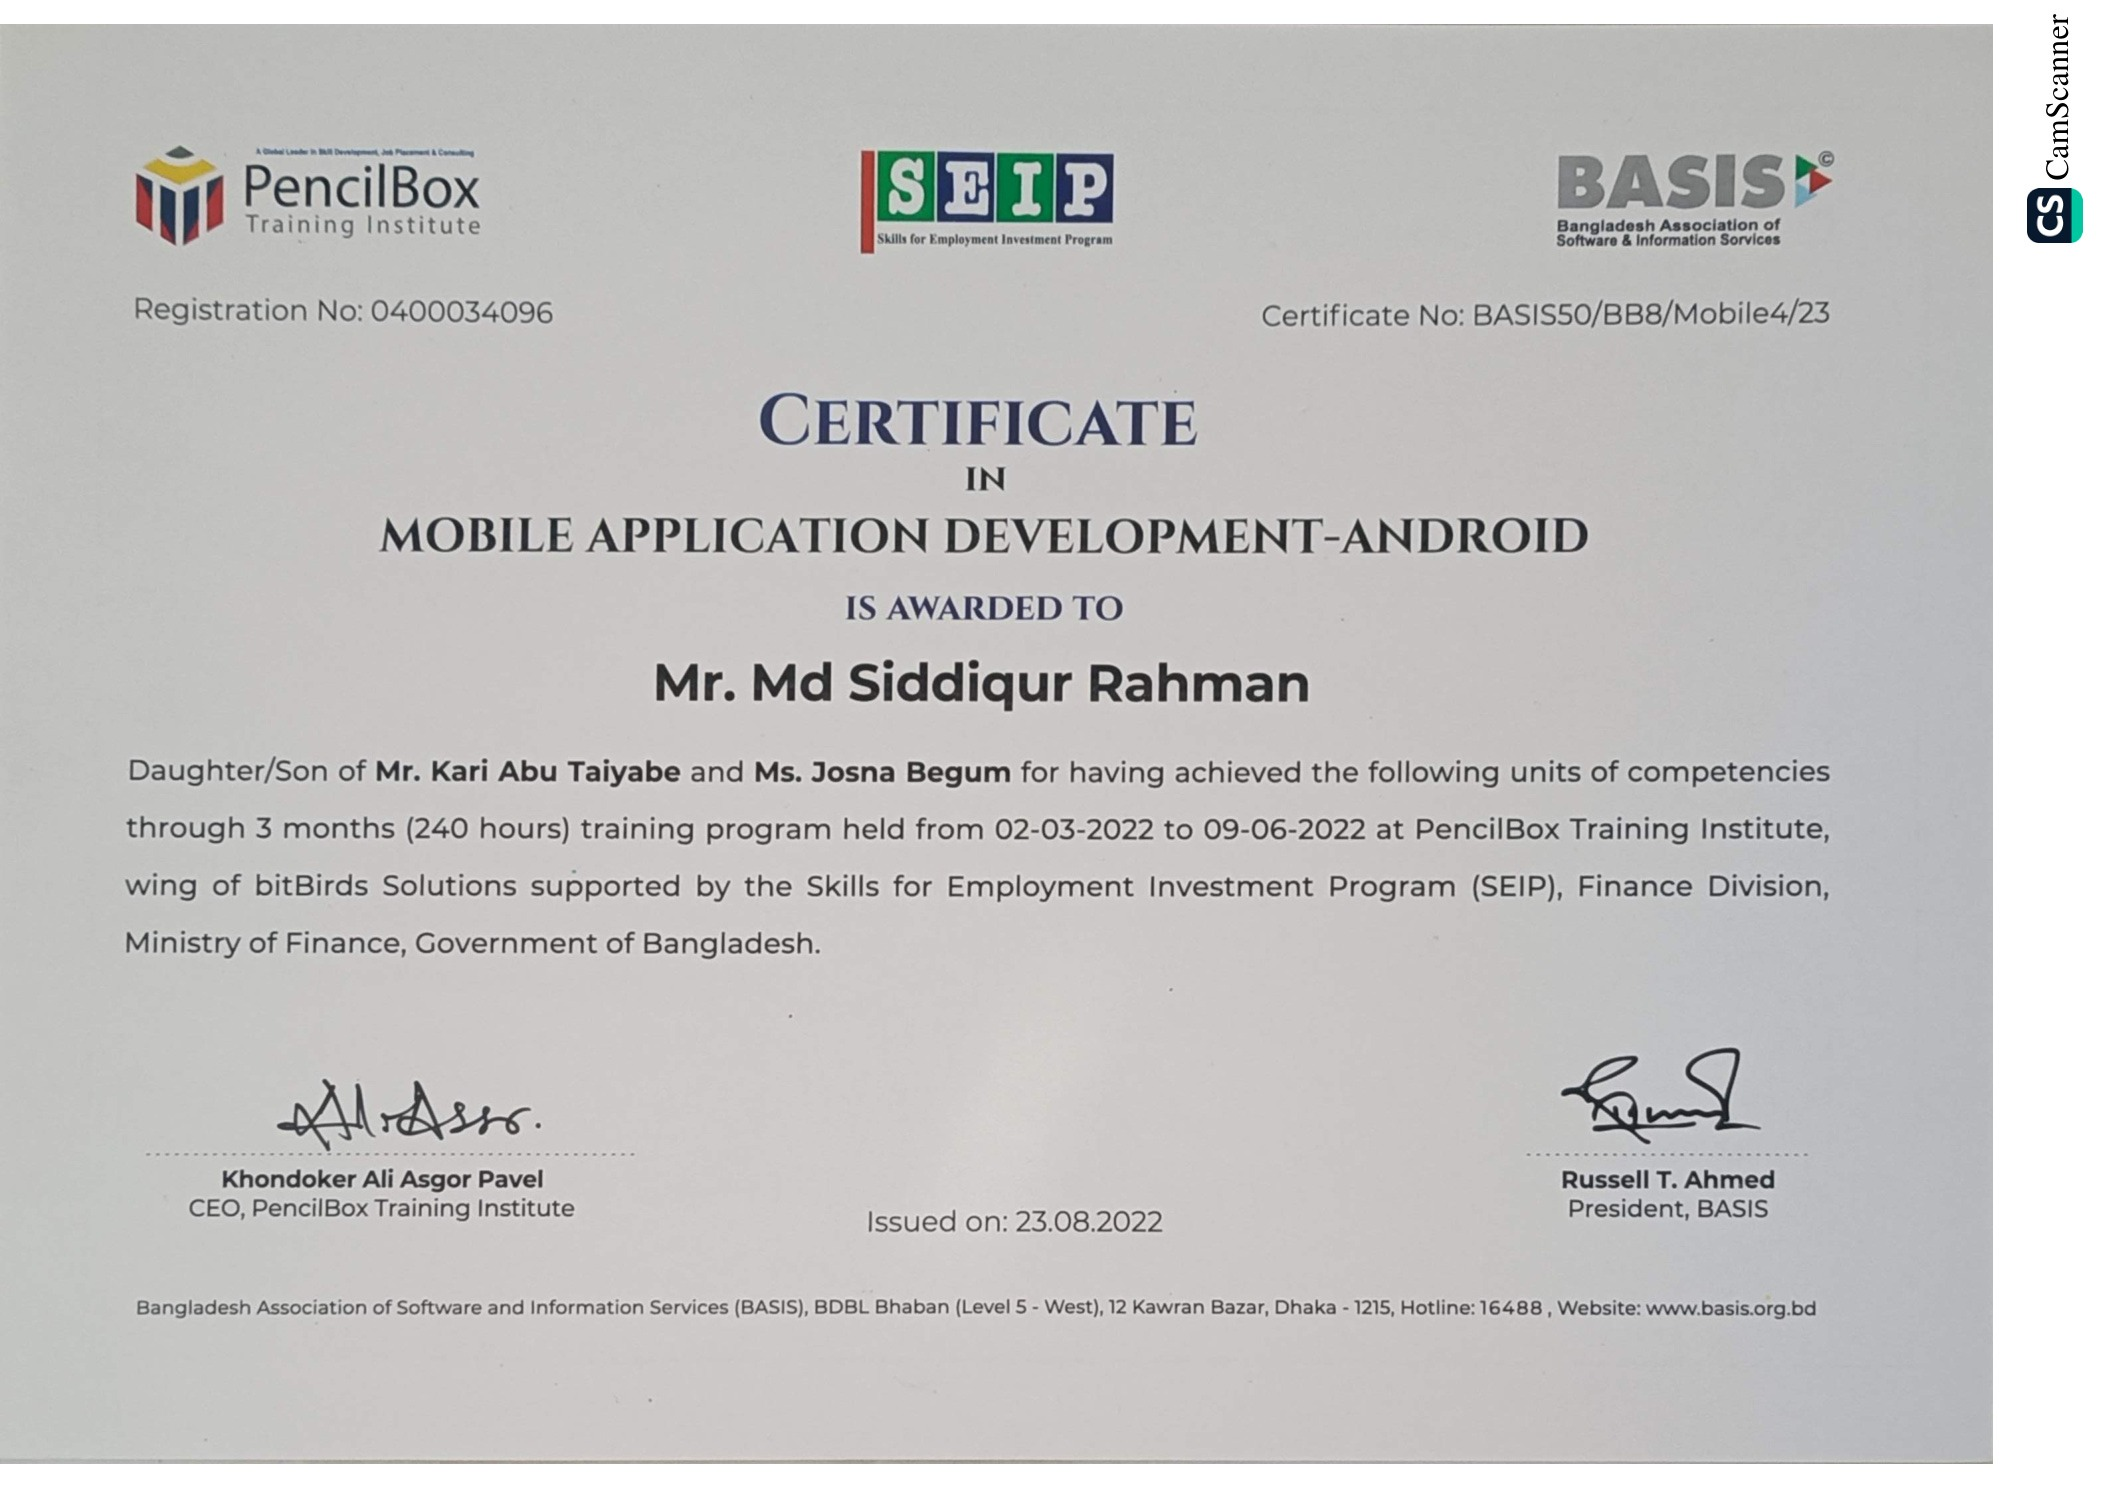
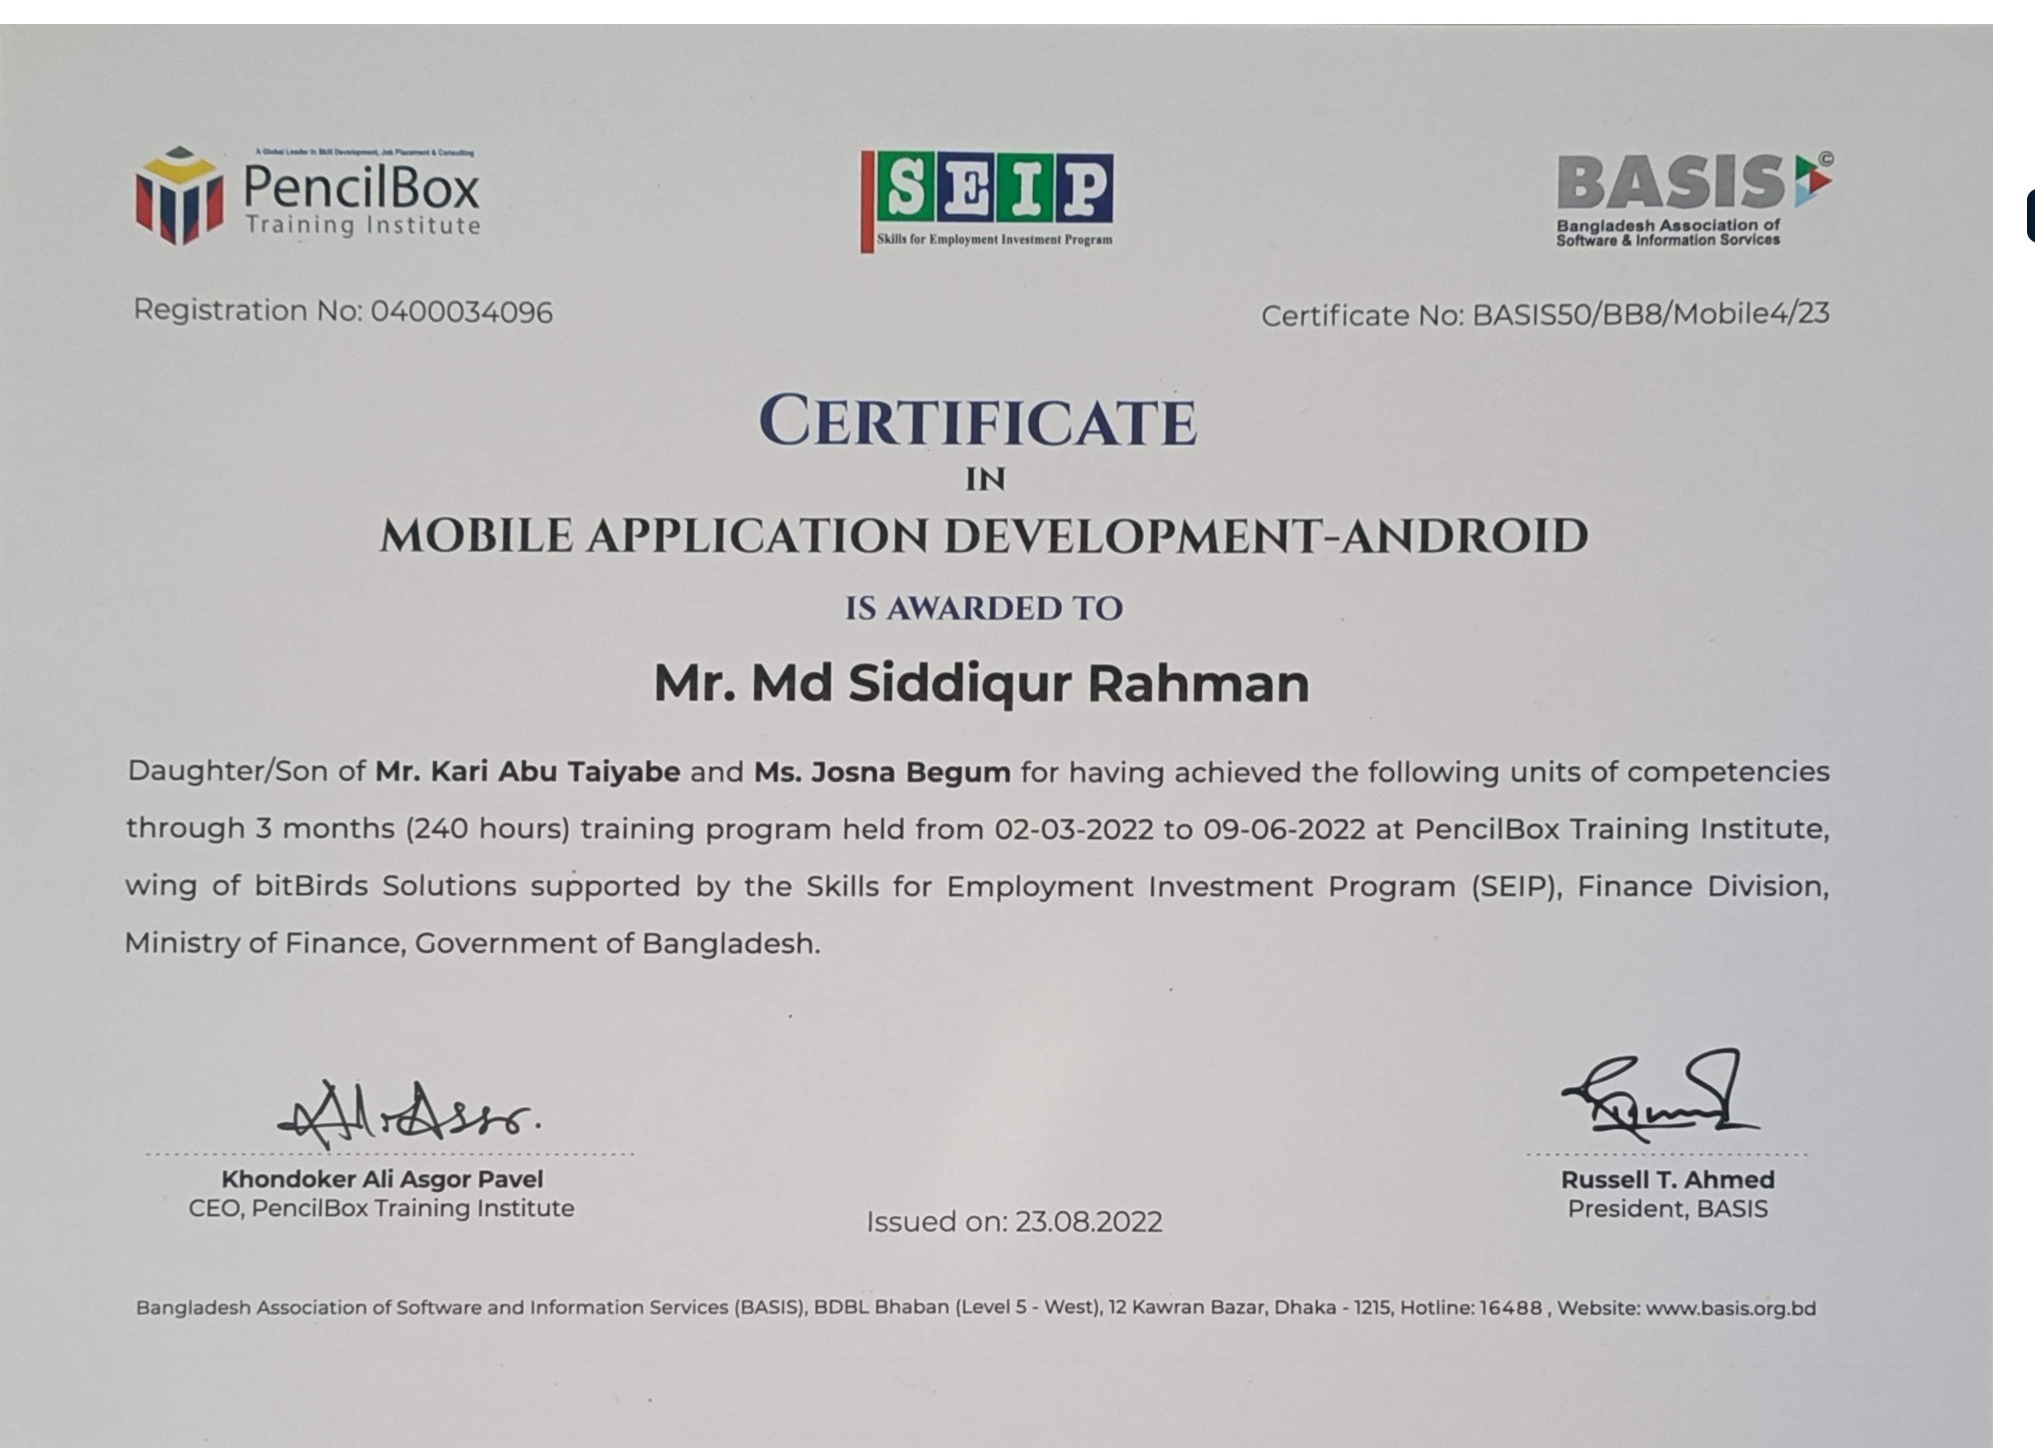
fix: crop CamScanner watermark strip from cert images

diff --git a/index.html b/index.html
@@ -595,7 +595,7 @@ footer{background:var(--bg);border-top:1px solid var(--cb);padding:2.5rem 0;text
 
       <div class="cert-card fu" onclick="openModal('cm-oracle')">
         <div class="cert-img-wrap">
-          <img src="assets/cert-oracle.jpg?v=4" alt="Oracle 11g Forms Developer Certificate">
+          <img src="assets/cert-oracle.jpg?v=5" alt="Oracle 11g Forms Developer Certificate">
           <div class="cert-ribbon">IBCS-PRIMAX</div>
           <div class="cert-eye"><i class="fas fa-expand-alt"></i></div>
         </div>
@@ -612,7 +612,7 @@ footer{background:var(--bg);border-top:1px solid var(--cb);padding:2.5rem 0;text
 
       <div class="cert-card fu" style="transition-delay:.15s" onclick="openModal('cm-android')">
         <div class="cert-img-wrap">
-          <img src="assets/cert-android.jpg?v=4" alt="Mobile App Development Android Certificate">
+          <img src="assets/cert-android.jpg?v=5" alt="Mobile App Development Android Certificate">
           <div class="cert-ribbon teal">BASIS · SEIP</div>
           <div class="cert-eye"><i class="fas fa-expand-alt"></i></div>
         </div>
@@ -926,7 +926,7 @@ footer{background:var(--bg);border-top:1px solid var(--cb);padding:2.5rem 0;text
     <div class="modal-body">
       <div class="modal-title">Oracle 11g Forms Developer</div>
       <div class="modal-tags"><span class="pt ta">Oracle</span><span class="pt tw">Database</span><span class="pt tfi">Forms</span></div>
-      <img src="assets/cert-oracle.jpg?v=4" alt="Oracle 11g Forms Developer Certificate" class="cert-modal-img">
+      <img src="assets/cert-oracle.jpg?v=5" alt="Oracle 11g Forms Developer Certificate" class="cert-modal-img">
       <p class="modal-desc">Professional training in Oracle 11g Forms Developer at IBCS-PRIMAX Software (Bangladesh) Ltd., covering Oracle Forms, PL/SQL, database design, and enterprise application development.</p>
       <div class="modal-section">
         <h4>Certificate Details</h4>
@@ -958,7 +958,7 @@ footer{background:var(--bg);border-top:1px solid var(--cb);padding:2.5rem 0;text
     <div class="modal-body">
       <div class="modal-title">Mobile Application Development – Android</div>
       <div class="modal-tags"><span class="pt ta">Android</span><span class="pt tf">Government</span><span class="pt tw">BASIS</span></div>
-      <img src="assets/cert-android.jpg?v=4" alt="Mobile App Development Android Certificate" class="cert-modal-img">
+      <img src="assets/cert-android.jpg?v=5" alt="Mobile App Development Android Certificate" class="cert-modal-img">
       <p class="modal-desc">Awarded by PencilBox Training Institute under the Skills for Employment Investment Program (SEIP), Finance Division, Ministry of Finance, Government of Bangladesh. 240 hours of intensive Android development training.</p>
       <div class="modal-section">
         <h4>Certificate Details</h4>
